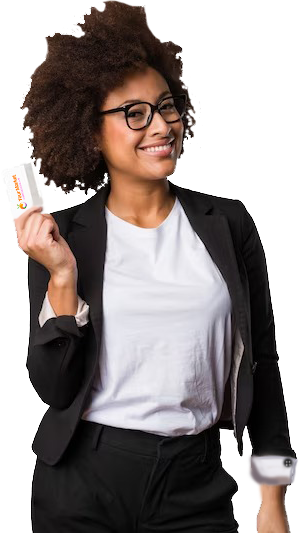
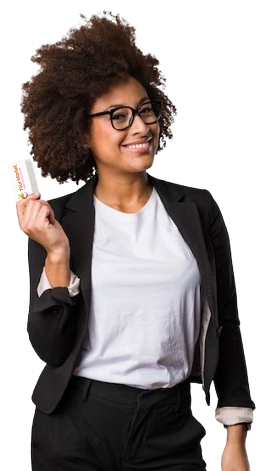
fix images differentials
remove image generated ia and implement real girl

diff --git a/index.html b/index.html
@@ -400,10 +400,7 @@
         <section class="container-differentials" id="section-differentials">
             <h3 class="title-primary-section">Diferencial</h3>
             <div class="division-screen">
-                <img
-                    src="https://i.ibb.co/rbxNqG7/nossocart-o.jpg"
-                    alt="Sobre"
-                />
+                <img src="./img/cartão.png" alt="Sobre" />
                 <div class="about-text-information">
                     <h4>Your Market</h4>
 

diff --git a/css/styles.css b/css/styles.css
@@ -903,10 +903,6 @@ footer p {
         justify-content: center;
     }
 
-    #section-differentials img {
-        width: 600px;
-    }
-
     #section-about img {
         width: 400px;
     }
